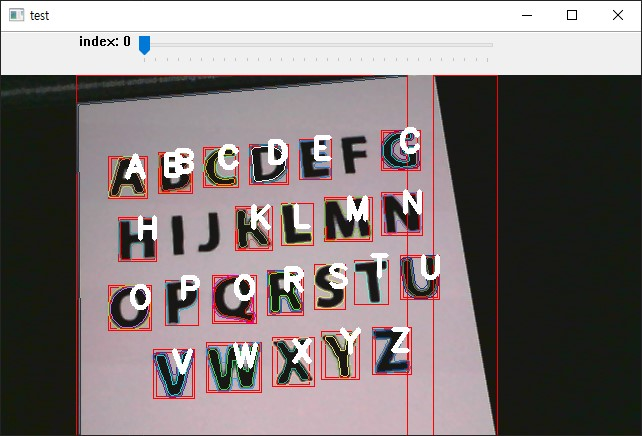
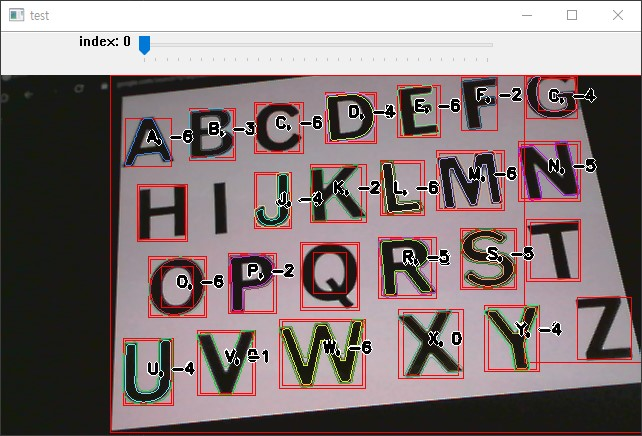
Adjust threshold value

diff --git a/AlphabetDetection/main.py b/AlphabetDetection/main.py
@@ -45,7 +45,7 @@ def main():
 
 def draw_contour(img, target):
     points = []
-    for contour, label in target:
+    for contour, label, weight in target:
         color1 = (list(np.random.choice(range(256), size=3)))  
         color =[int(color1[0]), int(color1[1]), int(color1[2])]  
         cv2.drawContours(img, [contour], -1, color, 1)
@@ -56,7 +56,8 @@ def draw_contour(img, target):
             x, y = 0, 0
         org=(x,y)
         font=cv2.FONT_HERSHEY_SIMPLEX
-        cv2.putText(img,string.ascii_uppercase[label],org,font,1,(255,255,255),3)
+        cv2.putText(img,'{}, {}'.format(string.ascii_uppercase[label], weight),org,font,0.5,(255,255,255),4)
+        cv2.putText(img,'{}, {}'.format(string.ascii_uppercase[label], weight),org,font,0.5,(0,0,0),2)
 
 
 def calc_points(contour):
@@ -100,12 +101,12 @@ def find_items(img, contours_im):
         crop_img = pil_img.crop((x,y,x+w,y+h))
 
         data = to_tensor(crop_img.resize((32,32)))
-        result = alphabet_detector(data)
+        result, weight = alphabet_detector(data)
 
-        if result == -1 :
+        if weight < answer_threshold :
             continue
         
-        alphabets.append((contour, result))
+        alphabets.append((contour, result, int(weight)))
     return alphabets
 
 

diff --git a/AlphabetDetection/alphabet_detector.py b/AlphabetDetection/alphabet_detector.py
@@ -27,10 +27,9 @@ def alphabet_detector(raw_data):
     
     
     overall = result.argmax(dim=1, keepdim=True).numpy().squeeze()
-    if result.squeeze().detach().numpy()[overall] < answer_threshold :
-        return -1
+    ans_weight = result.squeeze().detach().numpy()[overall]
     # print('Overall result : {}'.format(overall))
-    return overall
+    return overall, ans_weight
     
 
 

diff --git a/AlphabetDetection/consts.py b/AlphabetDetection/consts.py
@@ -3,5 +3,5 @@ device = 'cuda'
 N, D_in, H, D_out = 64, 1024, 100, 26
 TIDE = 32
 
-answer_threshold = -10
+answer_threshold = -7
 tolerance = 20
